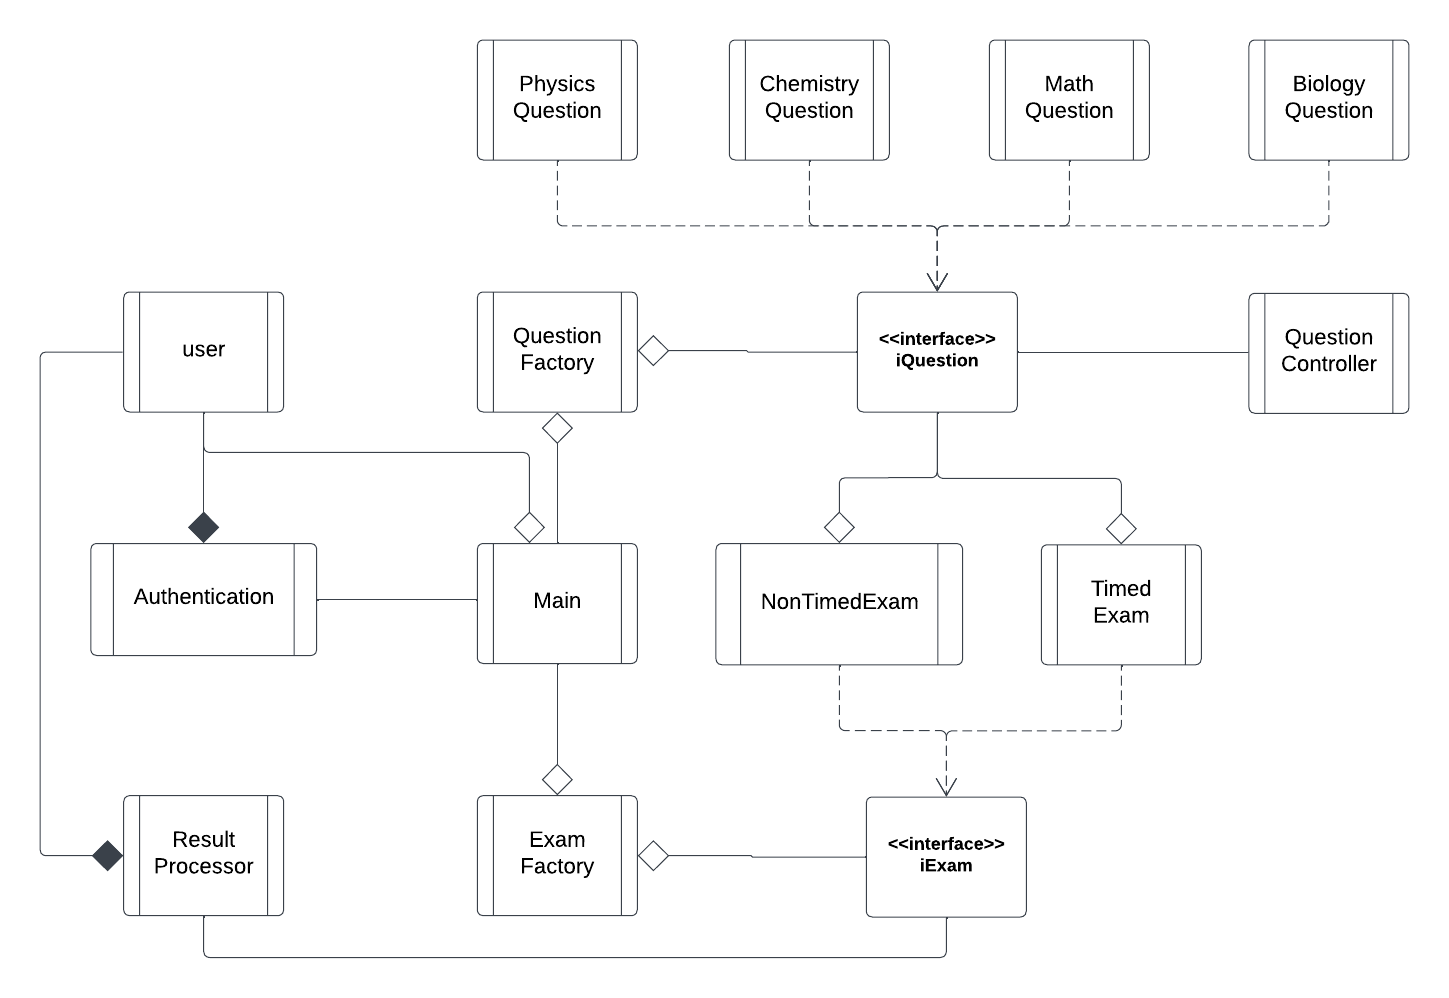
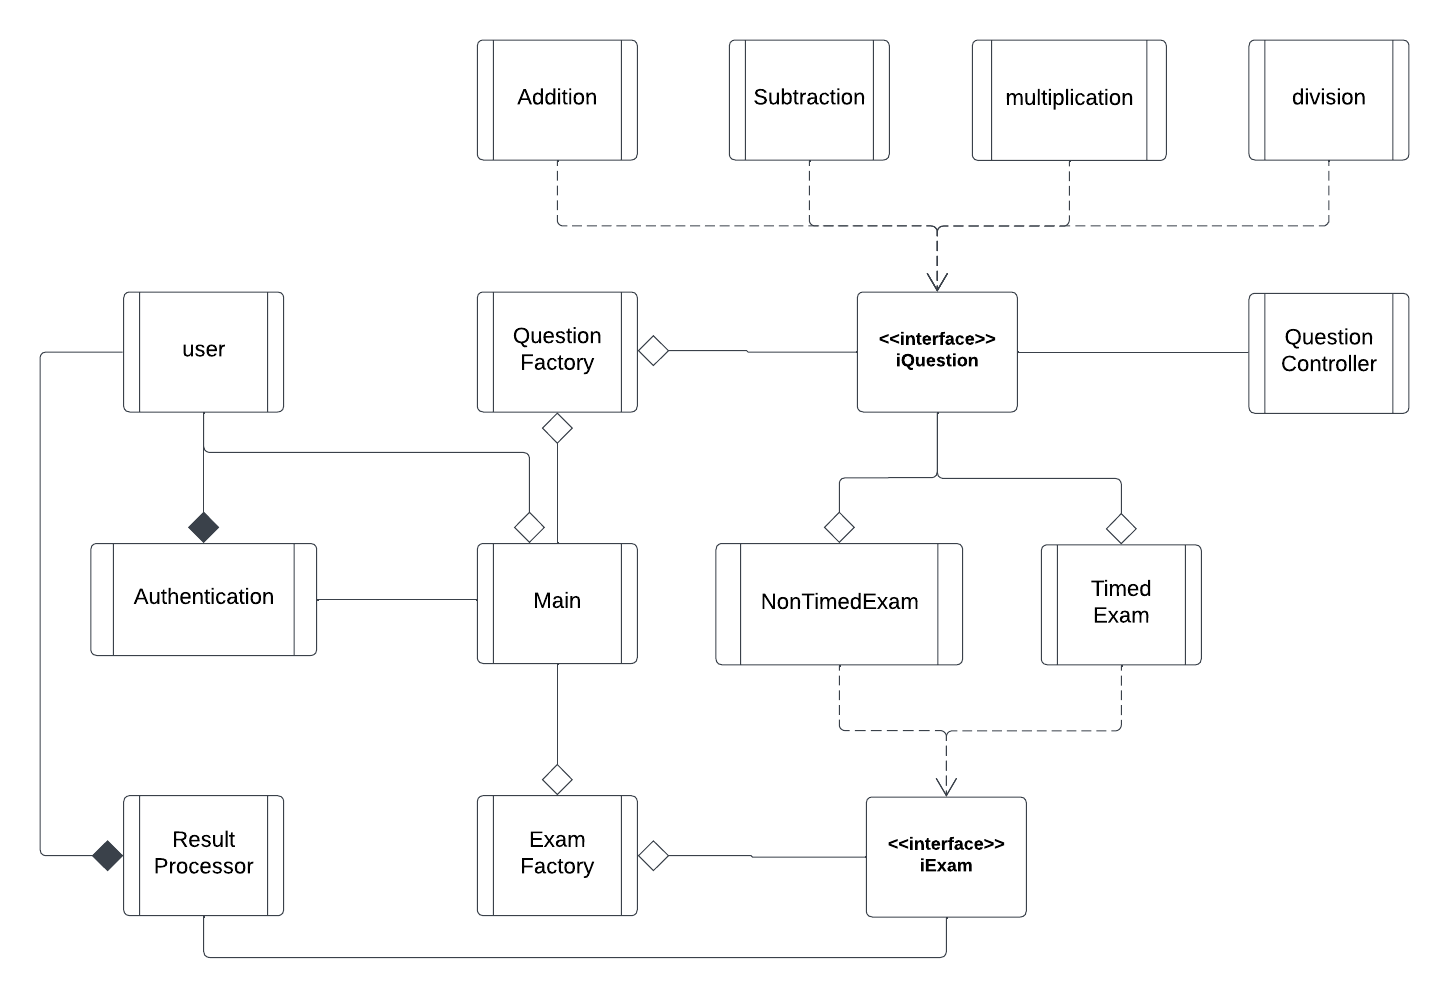
updated question types and rules

diff --git a/SOLVISH-R/src/SubtractionQuestion.java b/SOLVISH-R/src/SubtractionQuestion.java
@@ -1,0 +1,72 @@
+import java.text.DecimalFormat;
+
+public class SubtractionQuestion implements iQuestion{
+    private double number1;
+    private double number2;
+    private double answer;
+    private double givenAnswer;
+
+    public SubtractionQuestion(double number1, double number2) {
+        this.number1 = number1;
+        this.number2 = number2;
+        this.answer = number1 - number2;
+        this.givenAnswer = -1;
+    }
+
+    public SubtractionQuestion() {
+        DecimalFormat df = new DecimalFormat("#.##");
+        this.number1 = Double.valueOf(df.format(Math.random() * (10000 - 10) + 10));
+        this.number2 = Double.valueOf(df.format(Math.random() * (this.number1 - 10) + 10));
+        this.answer = number1 - number2;
+        this.givenAnswer = -1;
+    }
+
+
+    @Override
+    public boolean isCorrect() {
+        try{
+            if(this.answer - this.givenAnswer < 0.01) {
+                return true;
+            } else {
+                return false;
+            }
+        }
+        catch (NullPointerException e) {
+            throw new NullPointerException("Answer must be a number");
+        }
+    }
+
+    @Override
+    public boolean isAnswered() {
+        if(this.givenAnswer == -1) {
+            return false;
+        } else {
+            return true;
+        }
+    }
+
+    @Override
+    public String getGivenAnswer() {
+        return this.givenAnswer + "";
+    }
+
+    @Override
+    public String getCorrectAnswer() {
+        return this.answer + "";
+    }
+
+    @Override
+    public void checkAnswer(String givenAnswer) {
+        try{
+            this.givenAnswer = Double.parseDouble(givenAnswer);
+        }
+        catch (NumberFormatException e) {
+            throw new NumberFormatException("Answer must be a number");
+        }
+    }
+
+    @Override
+    public void show() {
+        System.out.println("What is " + this.number1 + " - " + this.number2 + "?");
+    }
+}

diff --git a/SOLVISH-R/src/AdditionQuestion.java b/SOLVISH-R/src/AdditionQuestion.java
@@ -1,0 +1,72 @@
+import java.text.DecimalFormat;
+
+public class AdditionQuestion implements iQuestion {
+    private double number1;
+    private double number2;
+    private double answer;
+    private double givenAnswer;
+
+    public AdditionQuestion(double number1, double number2) {
+        this.number1 = number1;
+        this.number2 = number2;
+        this.answer = number1 + number2;
+        this.givenAnswer = -1;
+    }
+
+    public AdditionQuestion() {
+        DecimalFormat df = new DecimalFormat("#.##");
+        this.number1 = Double.valueOf(df.format(Math.random() * (10000 - 10) + 10));
+        this.number2 = Double.valueOf(df.format(Math.random() * (10000 - 10) + 10));
+        this.answer = number1 + number2;
+        this.givenAnswer = -1;
+    }
+
+
+    @Override
+    public boolean isCorrect() {
+        try{
+            if(this.answer - this.givenAnswer < 0.01) {
+                return true;
+            } else {
+                return false;
+            }
+        }
+        catch (NullPointerException e) {
+            throw new NullPointerException("Answer must be a number");
+        }
+    }
+
+    @Override
+    public boolean isAnswered() {
+        if(this.givenAnswer == -1) {
+            return false;
+        } else {
+            return true;
+        }
+    }
+
+    @Override
+    public String getGivenAnswer() {
+        return this.givenAnswer + "";
+    }
+
+    @Override
+    public String getCorrectAnswer() {
+        return this.answer + "";
+    }
+
+    @Override
+    public void checkAnswer(String givenAnswer) {
+        try{
+            this.givenAnswer = Double.parseDouble(givenAnswer);
+        }
+        catch (NumberFormatException e) {
+            throw new NumberFormatException("Answer must be a number");
+        }
+    }
+
+    @Override
+    public void show() {
+        System.out.println("What is " + this.number1 + " + " + this.number2 + "?");
+    }
+}

diff --git a/SOLVISH-R/src/QuestionFactory.java b/SOLVISH-R/src/QuestionFactory.java
@@ -1,0 +1,25 @@
+public class QuestionFactory {
+    private static QuestionFactory instance = new QuestionFactory();
+    private QuestionFactory() {}
+    public static QuestionFactory getInstance() {
+        if(instance == null) {
+            instance = new QuestionFactory();
+        }
+        return instance;
+    }
+
+    public iQuestion getQuestion(String type) {
+        if(type.equals("addition")) {
+            return new AdditionQuestion();
+        } else if(type.equals("subtraction")) {
+            return new SubtractionQuestion();
+        } else if(type.equals("multiplication")) {
+            return new MultiplicationQuestion();
+        } else if(type.equals("division")) {
+            return new DivisionQuestion();
+        } else {
+            return null;
+        }
+    }
+
+}

diff --git a/SOLVISH-R/src/MultiplicationQuestion.java b/SOLVISH-R/src/MultiplicationQuestion.java
@@ -1,0 +1,31 @@
+public class MultiplicationQuestion implements iQuestion{
+    @Override
+    public boolean isCorrect() {
+        return false;
+    }
+
+    @Override
+    public boolean isAnswered() {
+        return false;
+    }
+
+    @Override
+    public String getGivenAnswer() {
+        return null;
+    }
+
+    @Override
+    public String getCorrectAnswer() {
+        return null;
+    }
+
+    @Override
+    public void checkAnswer(String givenAnswer) {
+
+    }
+
+    @Override
+    public void show() {
+
+    }
+}

diff --git a/SOLVISH-R/src/DivisionQuestion.java b/SOLVISH-R/src/DivisionQuestion.java
@@ -1,0 +1,32 @@
+public class DivisionQuestion implements iQuestion{
+
+    @Override
+    public boolean isCorrect() {
+        return false;
+    }
+
+    @Override
+    public boolean isAnswered() {
+        return false;
+    }
+
+    @Override
+    public String getGivenAnswer() {
+        return null;
+    }
+
+    @Override
+    public String getCorrectAnswer() {
+        return null;
+    }
+
+    @Override
+    public void checkAnswer(String givenAnswer) {
+
+    }
+
+    @Override
+    public void show() {
+
+    }
+}

diff --git a/SOLVISH-R/src/Main.java b/SOLVISH-R/src/Main.java
@@ -1,5 +1,15 @@
+import java.util.ArrayList;
+import java.util.List;
 public class Main {
     public static void main(String[] args) {
-        System.out.println("Hello world!");
+        List<iQuestion> questions = new ArrayList<iQuestion>();
+        questions.add(new AdditionQuestion());
+        questions.add(new SubtractionQuestion());
+
+        iExam exam = new NonTimedExam(1);
+        for (iQuestion question : questions) {
+            exam.addQuestion(question);
+        }
+        exam.runExam();
     }
 }

diff --git a/SOLVISH-R/src/TimedExam.java b/SOLVISH-R/src/TimedExam.java
@@ -1,3 +1,4 @@
+import java.util.ArrayList;
 import java.util.List;
 import java.util.Scanner;
 import java.util.concurrent.*;
@@ -16,6 +17,7 @@ public class TimedExam implements iExam{
     public TimedExam(int examID, int timeLimit) {
         this.examID = examID;
         this.timeLimit = timeLimit;
+        this.questions = new ArrayList<iQuestion>();
     }
 
     public void addQuestion(iQuestion question) {

diff --git a/SOLVISH-R/src/NonTimedExam.java b/SOLVISH-R/src/NonTimedExam.java
@@ -1,3 +1,4 @@
+import java.util.ArrayList;
 import java.util.List;
 import java.util.Scanner;
 
@@ -12,6 +13,7 @@ public class NonTimedExam implements iExam{
 
     public NonTimedExam(int examID) {
         this.examID = examID;
+        this.questions = new ArrayList<iQuestion>();
     }
 
     public void addQuestion(iQuestion question) {
